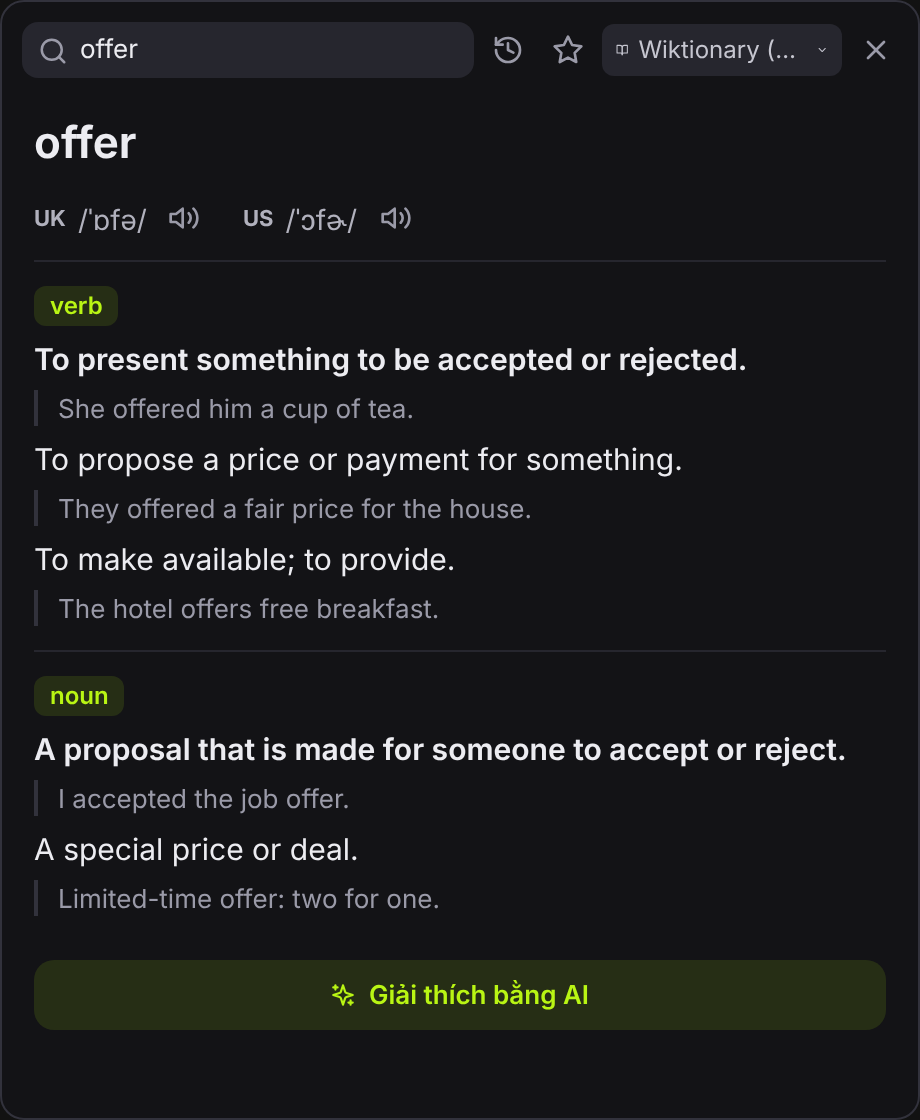
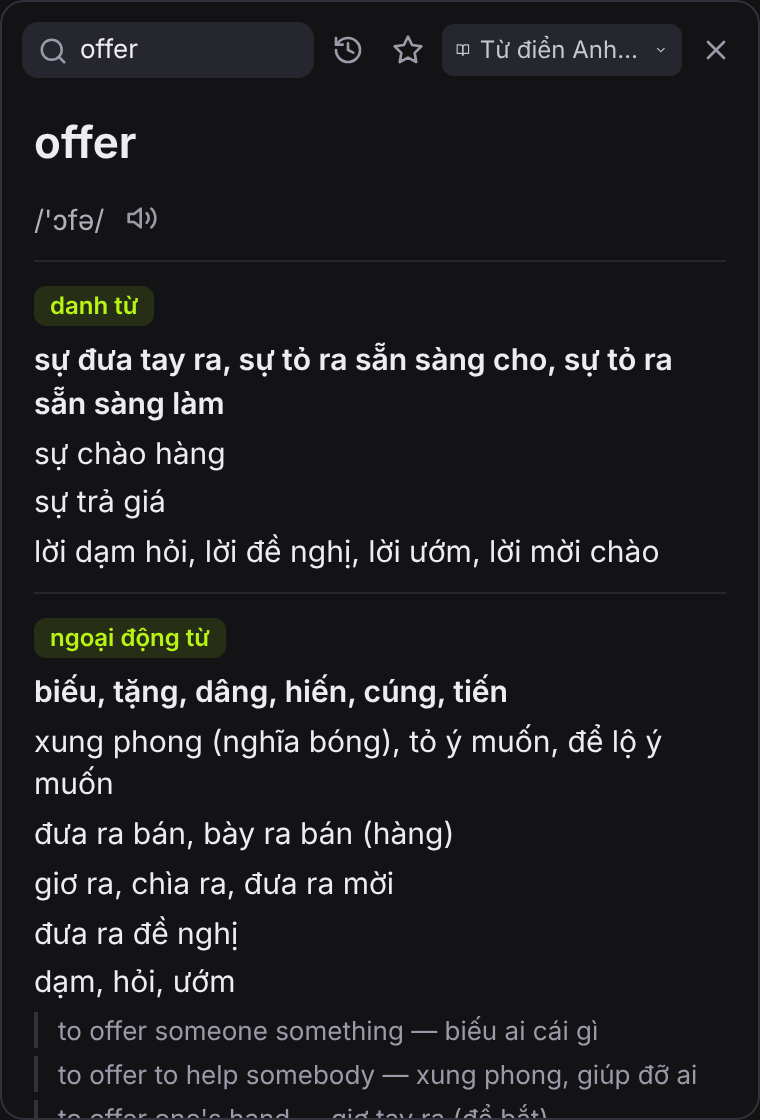
README: ảnh và GIF mới theo giao diện hiện tại

diff --git a/README.md b/README.md
@@ -47,7 +47,8 @@ Mặc định dùng Google miễn phí. Muốn dịch hay hơn, tự nhiên hơn
 - **Giọng đọc AI** và giọng Edge neural có sẵn.
 - **Tự cập nhật**, sao lưu lên WebDAV hoặc Google Drive.
 
-<p align="center"><img src="asset/demo-translate.gif" width="880"/></p>
+<p align="center"><img src="asset/demo-translate.gif" width="900"/></p>
+<p align="center"><img src="asset/ui-replace.png" width="900"/></p>
 
 ## Tính năng
 
@@ -72,17 +73,11 @@ Trong **Cài đặt → Tính năng → Nút AI** (hoặc nút **+** cạnh hàn
 <details>
 <summary><b>Thanh icon nổi khi chọn chữ</b></summary>
 
-<img src="asset/ui-toolbar-v2.png" align="right" width="460"/>
-
 - Hiện cạnh con trỏ khi bôi đen chữ, nhấp đúp một từ hoặc Ctrl+A, ở bất kỳ app nào.
 - Các nút: Dịch, Dịch và thay thế, Dịch và sao chép, Đọc to, Tra từ điển, Gõ từ, Sao chép, cùng các nút AI bạn chọn.
 - Kéo thả đổi thứ tự, ngang/dọc, chỉ icon hoặc có chữ, lọc theo ứng dụng, có ô xem trước trong cài đặt.
 
-<br clear="right"/>
-
-**Dịch và thay thế**: bản dịch được dán đè đúng chỗ đang chọn. Nếu chữ không sửa được (trang web, PDF), bản dịch hiện đè lên ngay vị trí đó, cuộn trang hoặc bấm Esc là tắt.
-
-<p align="center"><img src="asset/ui-replace-v3.png" width="880"/></p>
+**Dịch và thay thế**: bản dịch được dán đè đúng chỗ đang chọn. Nếu chữ không sửa được (trang web, PDF), bản dịch hiện đè lên ngay vị trí đó, cuộn trang hoặc bấm Esc là tắt (xem ảnh ở phần Điểm nổi bật).
 
 </details>
 
